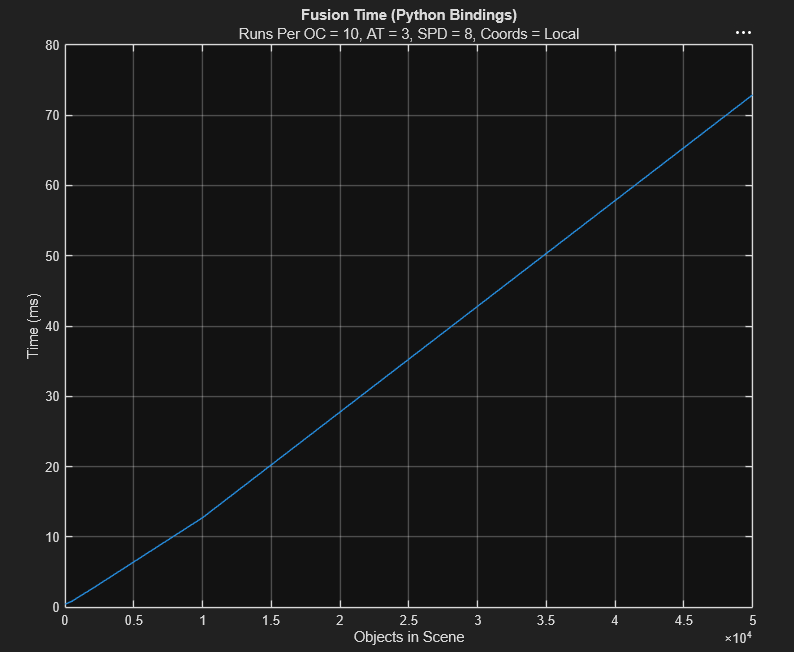
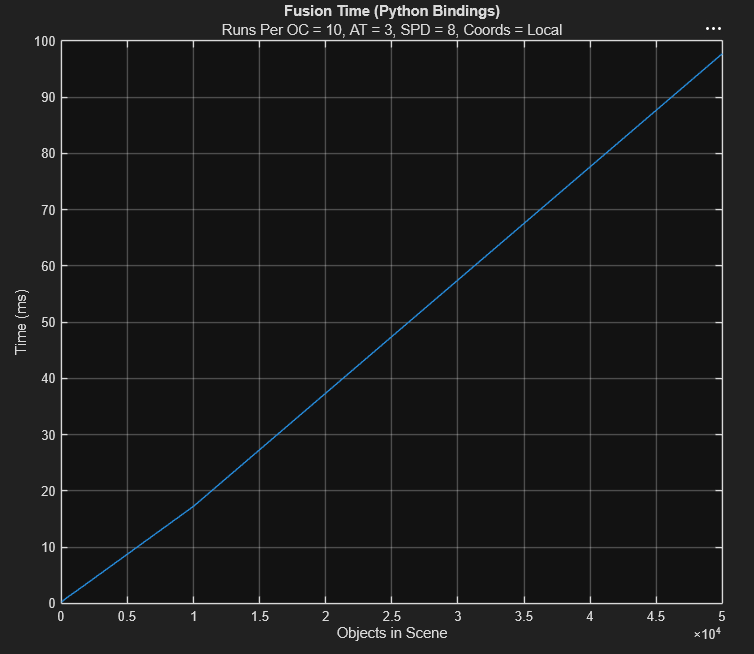
Small adjustments in performance

diff --git a/sahfte_eval.m b/sahfte_eval.m
@@ -1,0 +1,80 @@
+%% Data Points
+object_count = [10, 20, 50, 100, 500, 1000, 2000, 10000, 50000];
+time_ms = [
+    0.46982765197753906,
+    0.4419565200805664,
+    0.49262046813964844,
+    0.5270481109619141,
+    0.8659124374389648,
+    1.4908790588378906,
+    2.694272994995117,
+    12.754344940185547,
+    72.8672981262207
+    ];
+
+time_ms_v3 = [
+    0.5235433578491211,
+    0.6910324096679688,
+    1.0100364685058594,
+    1.7795801162719727,
+    7.347822189331055,
+    13.618087768554688,
+    27.005934715270996,
+    131.9575309753418,
+    688.2725715637207
+];
+
+time_ms_v3_64 = [
+    0.5468368530273438,
+    0.7409811019897461,
+    1.0438203811645508,
+    1.7334938049316406,
+    6.743001937866211,
+    12.752699851989746,
+    24.6243953704834,
+    122.52035140991211,
+    638.6480331420898
+];
+
+time_ms_v3_opt = [
+    0.2767801284790039,
+    0.2727508544921875,
+    0.2350330352783203,
+    0.40450096130371094,
+    1.1384963989257812,
+    1.9511699676513672,
+    3.638744354248047,
+    17.246580123901367,
+    97.72083759307861
+];
+
+%% Plot
+plot(object_count, time_ms, "DisplayName", "V3 Unstable");
+
+hold on;
+
+plot(object_count, time_ms_v3, "DisplayName", "V3 Stable C=16");
+
+hold on;
+
+plot(object_count, time_ms_v3_64, "DisplayName", "V3 Stable C=64");
+
+hold on;
+
+plot(object_count, time_ms_v3_opt, "DisplayName", "V3 Stable C=64, No CV");
+
+grid on;
+title("Fusion Time (Python Bindings)")
+subtitle("Runs Per OC = 10, AT = 3, SPD = 8, Coords = Local");
+ylabel("Time (ms)")
+xlabel("Objects in Scene")
+legend("show");
+
+
+figure;
+plot(object_count, time_ms_v3_opt);
+grid on;
+title("Fusion Time (Python Bindings)")
+subtitle("Runs Per OC = 10, AT = 3, SPD = 8, Coords = Local");
+ylabel("Time (ms)")
+xlabel("Objects in Scene")

diff --git a/README.md b/README.md
@@ -22,9 +22,11 @@ What SAHFTE is NOT:
 * A statistical model, this project is purely algorithmic and has no option as of yet to include statistical information like position and size confidence, the only statistical value that SAHFTE cares about is the confidence of the provided class label
 * Completely optimal, while SAHFTE uses several optimizations, this is for an undergrad project, and I have not had the time or real need to hammer this into the most performant form it can be. That being said however, it should still be pretty darn fast
 
-While it may not be the most complicated, feature rich or technically amazing thing in the world, it is still at the very least pretty speedy, and under testing generally has linear `O(n)` behavior, at least for total inference counts in the range of **[1, 150,000]**, that represent 50,000 ground truth objects in a field of 100m^3 around the hypothetical sensor bed, as this test shows.
+While it may not be the most complicated, feature rich or technically amazing thing in the world, it is still at the very least pretty speedy, and under testing generally has linear `O(n)` behavior, at least for total inference counts in the range of **[1, 150,000]**, that represent 50,000 ground truth objects picked up by 3 independent sensors in a field of 100m^3 around the hypothetical sensor bed, as this test shows.
 
 ![A graph with SAHFTE's performance](sahfte_eval.png "Performance")
+
+*This test was performed with 10 runs per object count, 3 modalities, 3 classes, a 100m^3 bounding volume, spatial bit depth of 8, auxillary threads of 3 (bringing total thread count to 4), and passing in local coords. The data points graphed here and the graphing code are inside `sahfte_eval.m`*
 
 ## Python Quick Start
 
